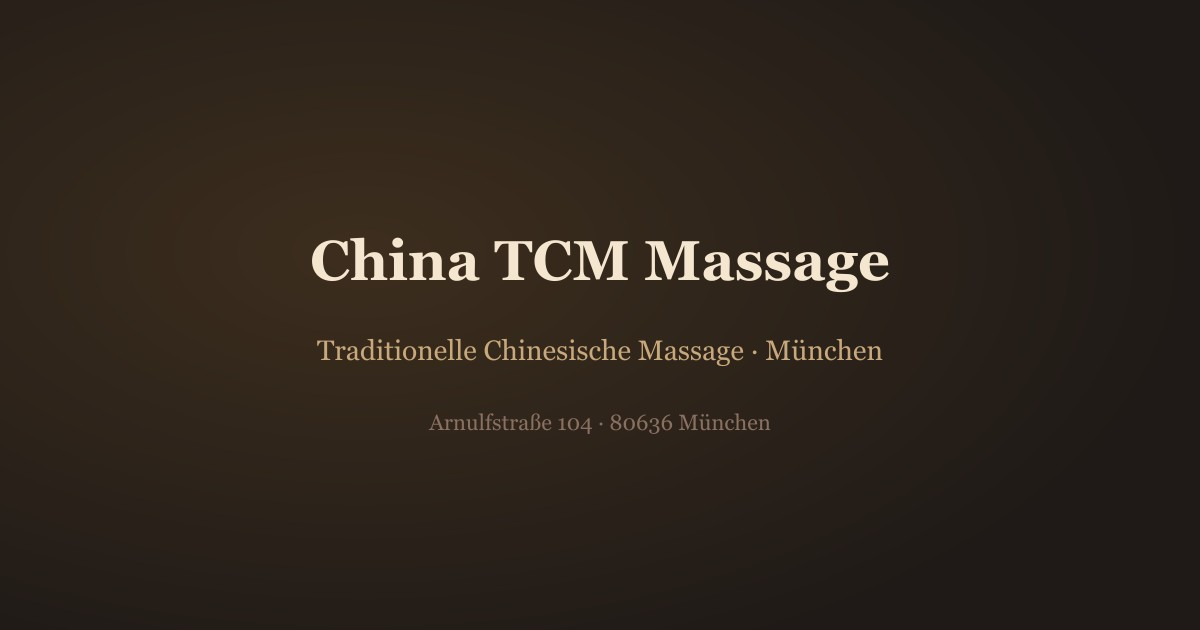
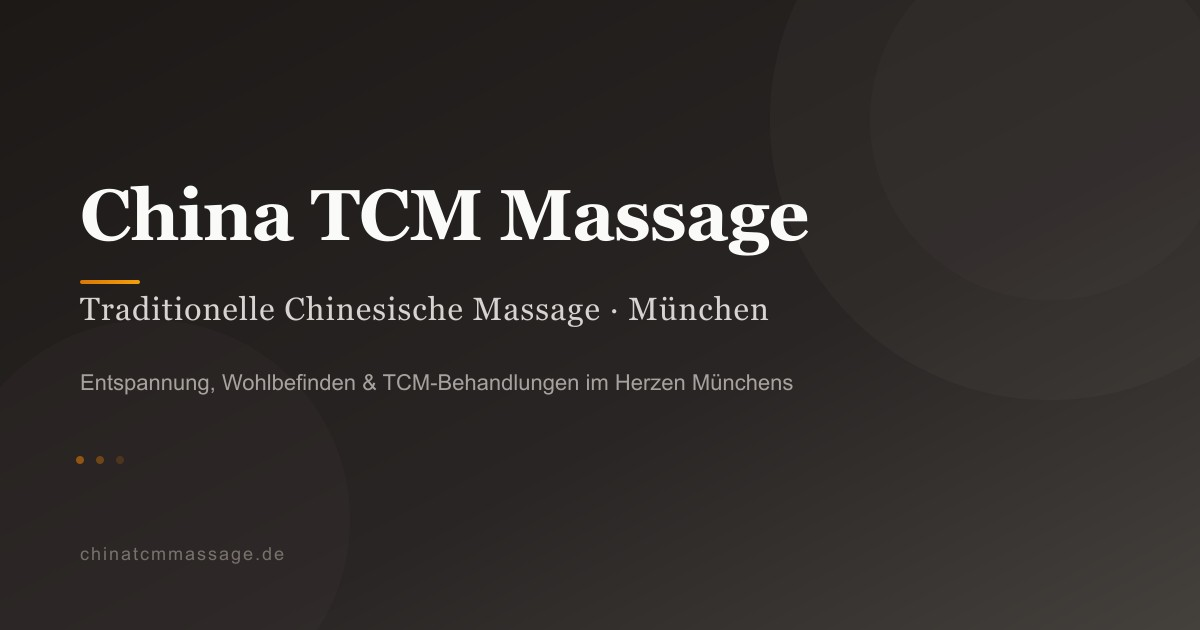
phase-62: SEO收尾+OG图片+安全审计
- contact: LocalBusiness @id 改指首页 URL
- gallery: 新增 ImageGallery/ImageObject schema
- structured-data: 新增 buildImageGalleryJsonLd()
- seo: 删除无用 getLocaleAlternates()
- public/og-image.svg+jpg: 品牌风格 OG 图片 1200x630
- npm audit: 0 漏洞

diff --git a/src/app/[locale]/gallery/page.tsx b/src/app/[locale]/gallery/page.tsx
@@ -8,7 +8,8 @@ import { FloatingActions } from '../../../components/site/FloatingActions'
 import { SectionShell } from '../../../components/site/SectionShell'
 import { isLocale, Locale } from '../../../lib/i18n'
 import { getMessages } from '../../../lib/copy'
-import { createPageMetadata } from '../../../lib/seo'
+import { createPageMetadata, getBaseUrl } from '../../../lib/seo'
+import { buildImageGalleryJsonLd } from '../../../lib/structured-data'
 import { getActiveGallery, getSystemSettings } from '../../../server/services/site.service'
 
 const fallbackGallery = [
@@ -80,8 +81,22 @@ export default async function GalleryPage({ params }: { params: Promise<{ locale
     ? gallery.map((item) => ({ id: item.id, title: item.title || 'Gallery', image: item.imageUrl }))
     : fallbackGallery.map((item) => ({ id: item.id, title: item.title[typedLocale], image: item.image }))
 
+  const baseUrl = getBaseUrl().toString().replace(/\/$/, '')
+  const providerUrl = `${baseUrl}/de`
+  const imageGalleryJsonLd = buildImageGalleryJsonLd(
+    items.map((item) => ({ url: item.image, name: item.title })),
+    'China TCM Massage',
+    providerUrl,
+  )
+
   return (
     <main>
+      {imageGalleryJsonLd && (
+        <script
+          type="application/ld+json"
+          dangerouslySetInnerHTML={{ __html: JSON.stringify(imageGalleryJsonLd) }}
+        />
+      )}
       <SiteHeader locale={typedLocale} />
       <SectionShell
         eyebrow={typedLocale === 'de' ? 'Studio Galerie' : 'Studio gallery'}

diff --git a/src/lib/structured-data.ts b/src/lib/structured-data.ts
@@ -167,3 +167,28 @@ export function buildItemListJsonLd(items: { name: string; url: string }[]) {
     })),
   }
 }
+
+export function buildImageGalleryJsonLd(
+  images: { url: string; name: string; description?: string }[],
+  providerName: string,
+  providerUrl: string,
+) {
+  if (images.length === 0) return null
+  return {
+    '@context': 'https://schema.org',
+    '@type': 'ImageGallery',
+    name: providerName,
+    url: providerUrl,
+    associatedMedia: images.map((img) => ({
+      '@type': 'ImageObject',
+      contentUrl: img.url,
+      name: img.name,
+      description: img.description || img.name,
+      author: {
+        '@type': 'Organization',
+        name: providerName,
+        url: providerUrl,
+      },
+    })),
+  }
+}

diff --git a/src/lib/seo.ts b/src/lib/seo.ts
@@ -24,20 +24,6 @@ function normalizePathname(pathname: string) {
   return pathname === '/' ? '' : pathname
 }
 
-export function getLocaleAlternates(pathname: string) {
-  const normalized = normalizePathname(pathname)
-  const base = getBaseUrl().toString().replace(/\/$/, '')
-
-  return {
-    canonical: `${base}/de${normalized}`,
-    languages: {
-      de: `${base}/de${normalized}`,
-      en: `${base}/en${normalized}`,
-      'x-default': `${base}/de${normalized}`,
-    },
-  }
-}
-
 export function createPageMetadata({
   locale,
   pathname,

diff --git a/src/app/[locale]/contact/page.tsx b/src/app/[locale]/contact/page.tsx
@@ -49,12 +49,13 @@ export default async function ContactPage({ params }: { params: Promise<{ locale
   ])
 
   const baseUrl = getBaseUrl().toString().replace(/\/$/, '')
+  // @id should point to the homepage (canonical business entity URL), not the contact page
   const localBusinessJsonLd = buildLocalBusinessJsonLd({
     locale: typedLocale,
     contact,
     hours,
     settings,
-    url: `${baseUrl}/${typedLocale}/contact`,
+    url: `${baseUrl}/de`,
   })
 
   return (

diff --git a/DEVELOPMENT_LOG.md b/DEVELOPMENT_LOG.md
@@ -824,3 +824,22 @@
 - `sitemap.ts`：移除 `/booking` 路径（noindex 页面不收录）
 
 - `npm run build` 验证通过 ✅
+
+## Phase 62 — SEO 收尾 + OG 图片 + 安全审计（2026-03-17）
+
+**SEO 修复**
+- `contact/page.tsx`：`buildLocalBusinessJsonLd` 的 `@id` 改为指向首页 `${baseUrl}/de`（规范的 LocalBusiness 实体 URL，不应指向联系页）
+- `gallery/page.tsx`：新增 `ImageGallery` + `ImageObject` schema，每张图片标记 `contentUrl / name / author`
+- `structured-data.ts`：新增 `buildImageGalleryJsonLd()` 函数
+- `seo.ts`：删除已无用的 `getLocaleAlternates()` 函数（`createPageMetadata` 已内联处理 hreflang）
+
+**OG 图片**
+- `public/og-image.svg`：新建品牌风格 SVG（深色背景 + 琥珀色 accent，1200×630）
+- `public/og-image.jpg`：用 sharp 从 SVG 生成 JPEG（quality 90，45KB）
+
+**安全审计**
+- `npm audit --audit-level=high`：0 漏洞
+
+**构建验证**
+- `npm run build` 通过 ✓，22 页全部生成，0 错误
+
